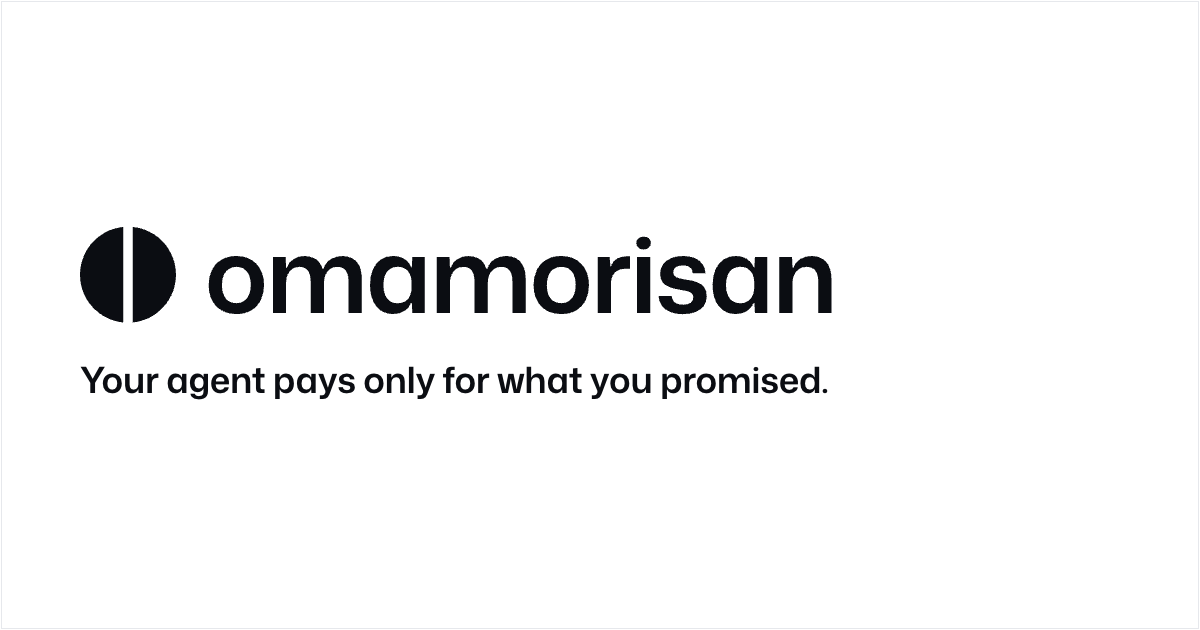
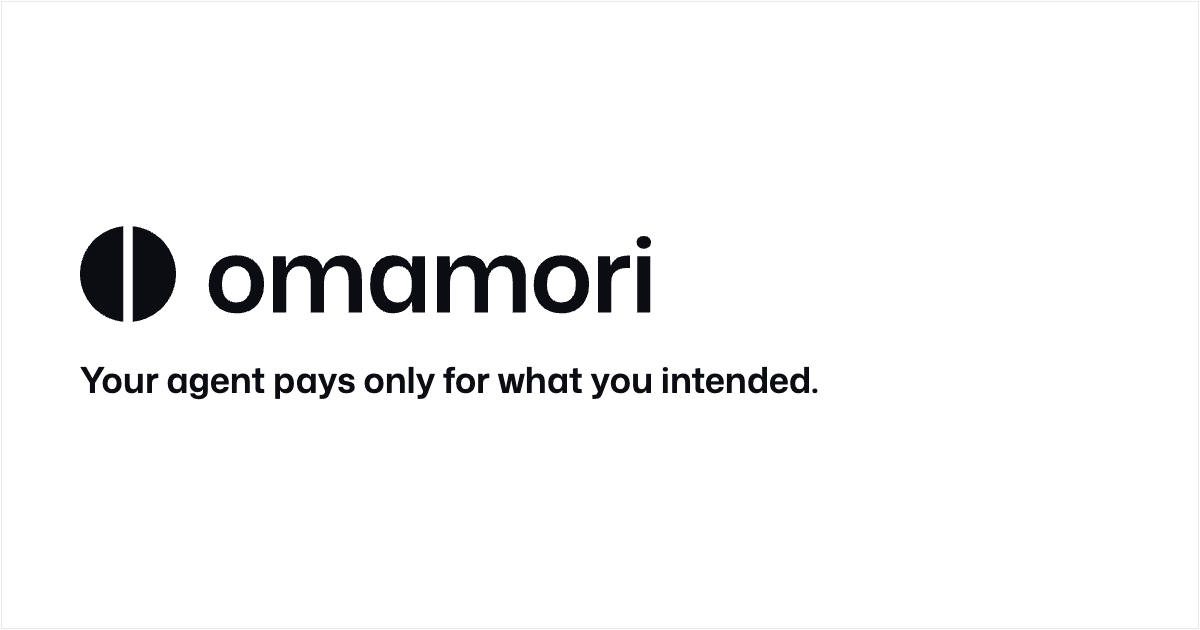
feat(site): redraw the wordmark and social card as omamori

diff --git a/apps/site/BRAND.md b/apps/site/BRAND.md
@@ -1,11 +1,11 @@
-# Omamorisan brand mark
+# Omamori brand mark
 
 Not served by the site — internal reference for anyone touching `public/brand/**`.
 
 ## What it means
 
 A solid circle split by one centered vertical slot: a gate that only lets the right payment
-through. It is also the "o" of omamorisan. No pen, no checkmark, no Japanese motifs (see
+through. It is also the "o" of omamori. No pen, no checkmark, no Japanese motifs (see
 `PRODUCT.md` → Brand Commitments, `DESIGN.md` header) — just the gate.
 
 ## Files (`apps/site/public/brand/`)
@@ -16,7 +16,7 @@ through. It is also the "o" of omamorisan. No pen, no checkmark, no Japanese mot
 | `favicon.svg` | Same mark with a wider slot for legibility at 16–32 px. Ink on transparent. |
 | `favicon-32.png`, `icon-512.png` | Raster fallbacks of the favicon/mark for browsers and PWA manifests that need a PNG. Transparent background. |
 | `apple-touch-icon.png` | 180×180, mark padded ~20% on white (`#ffffff`), per Apple's icon convention. |
-| `logo.svg` | Horizontal lockup — mark left, "omamorisan" wordmark right. Used in `Nav.astro` and `AppShell.tsx`. |
+| `logo.svg` | Horizontal lockup — mark left, "omamori" wordmark right. Used in `Nav.astro` and `AppShell.tsx`. |
 | `logo-stacked.svg` | Mark above the wordmark, centered. Use for square/vertical placements (README, share cards). |
 | `og.png` | 1200×630 Open Graph / Twitter card image: white canvas, hairline frame, lockup + tagline. |
 
@@ -43,7 +43,7 @@ extra ornament — it stays a clean two-path SVG at every size.
 The wordmark in `logo.svg` / `logo-stacked.svg` is **Mona Sans weight 600, outlined to paths**
 (extracted from the project's `@fontsource-variable/mona-sans` package with `fontTools`: the
 variable font instanced at `wght=600`/`wdth=100`, each glyph's outline exported with
-`fontTools.pens.svgPathPen.SVGPathPen`, and the ten glyphs of "omamorisan" assembled using the
+`fontTools.pens.svgPathPen.SVGPathPen`, and the seven glyphs of "omamori" assembled using the
 font's own advance widths with `-0.02em` letter-spacing applied between characters — no kerning
 pairs apply to this word at this weight). The SVG needs no font at render time. Mark height is
 cap height × 1.25, vertically centered on the cap-height band; the gap between mark and wordmark
@@ -72,3 +72,8 @@ with the mark horizontally centered over the wordmark instead.
 Concept generated with Codex `image_gen` as `assets/logo-v2/01-slot.png` (outside this repo); the
 shipped vector geometry was authored by hand from measurements on that concept, not auto-traced.
 The wordmark is Mona Sans 600, outlined to paths with `fontTools` as described above.
+
+The wordmark was renamed to "omamori" (2026-09-27) by dropping the last three glyphs of the
+original outline and trimming the viewBox; spacing and geometry are unchanged. `og.png` was
+re-rendered with the same layout: `logo.svg` at 96 px tall at (80, 226), tagline in Mona Sans 600
+at 35.3 px, 1 px `#e8e8e8` hairline frame.
